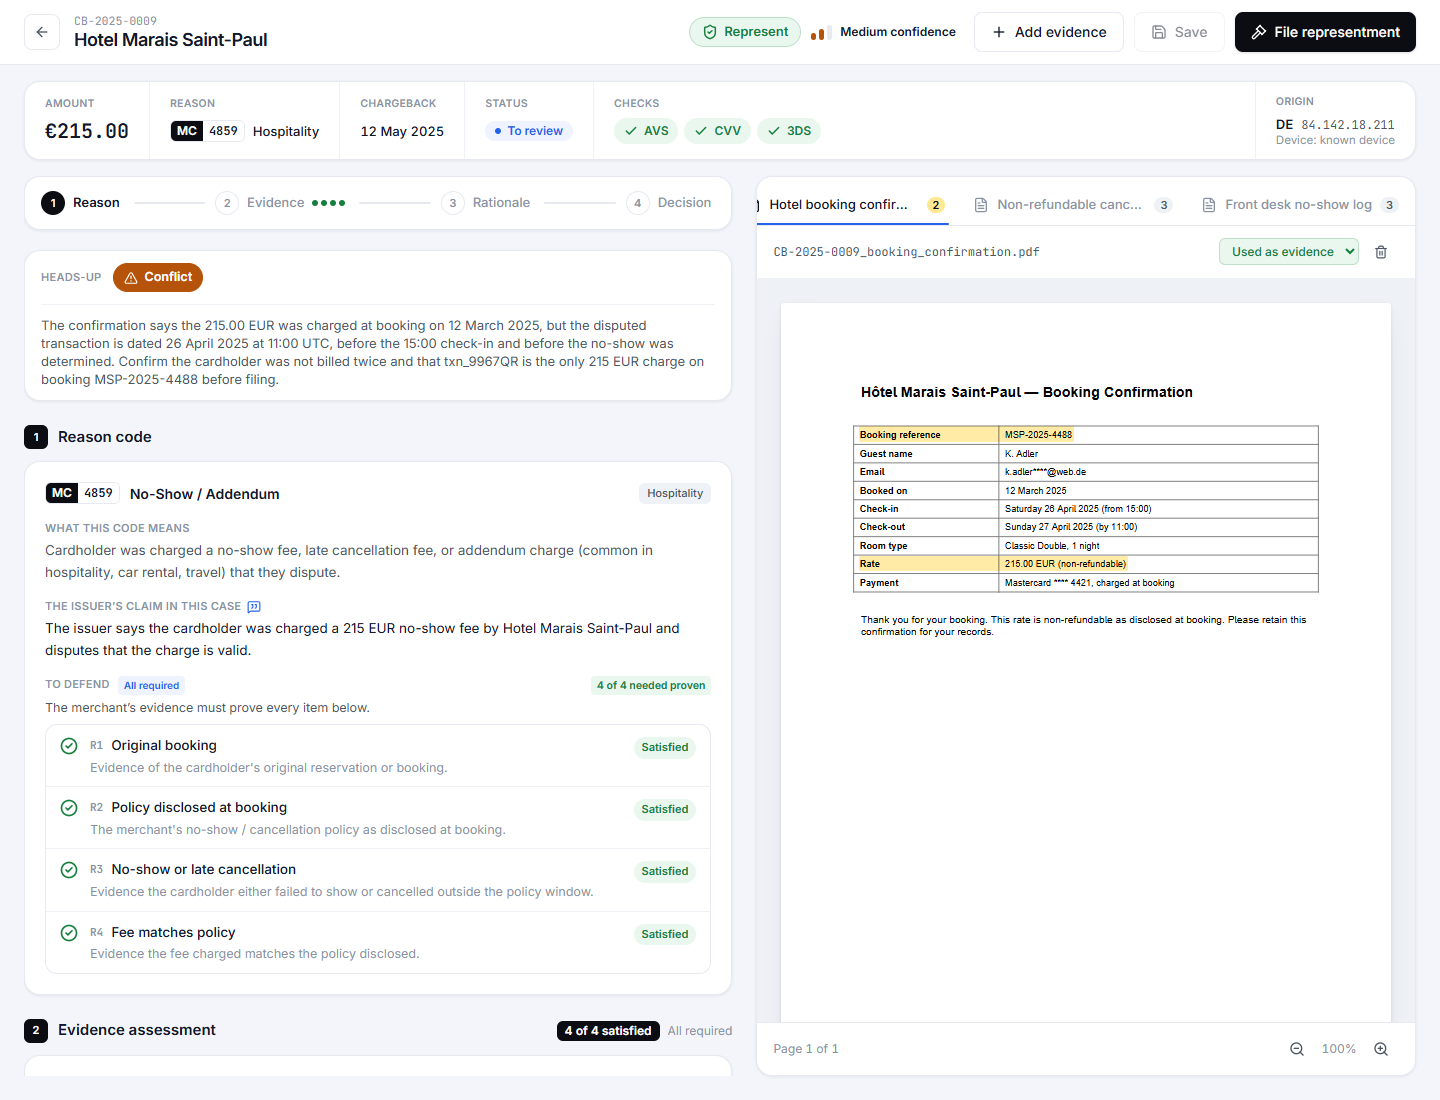
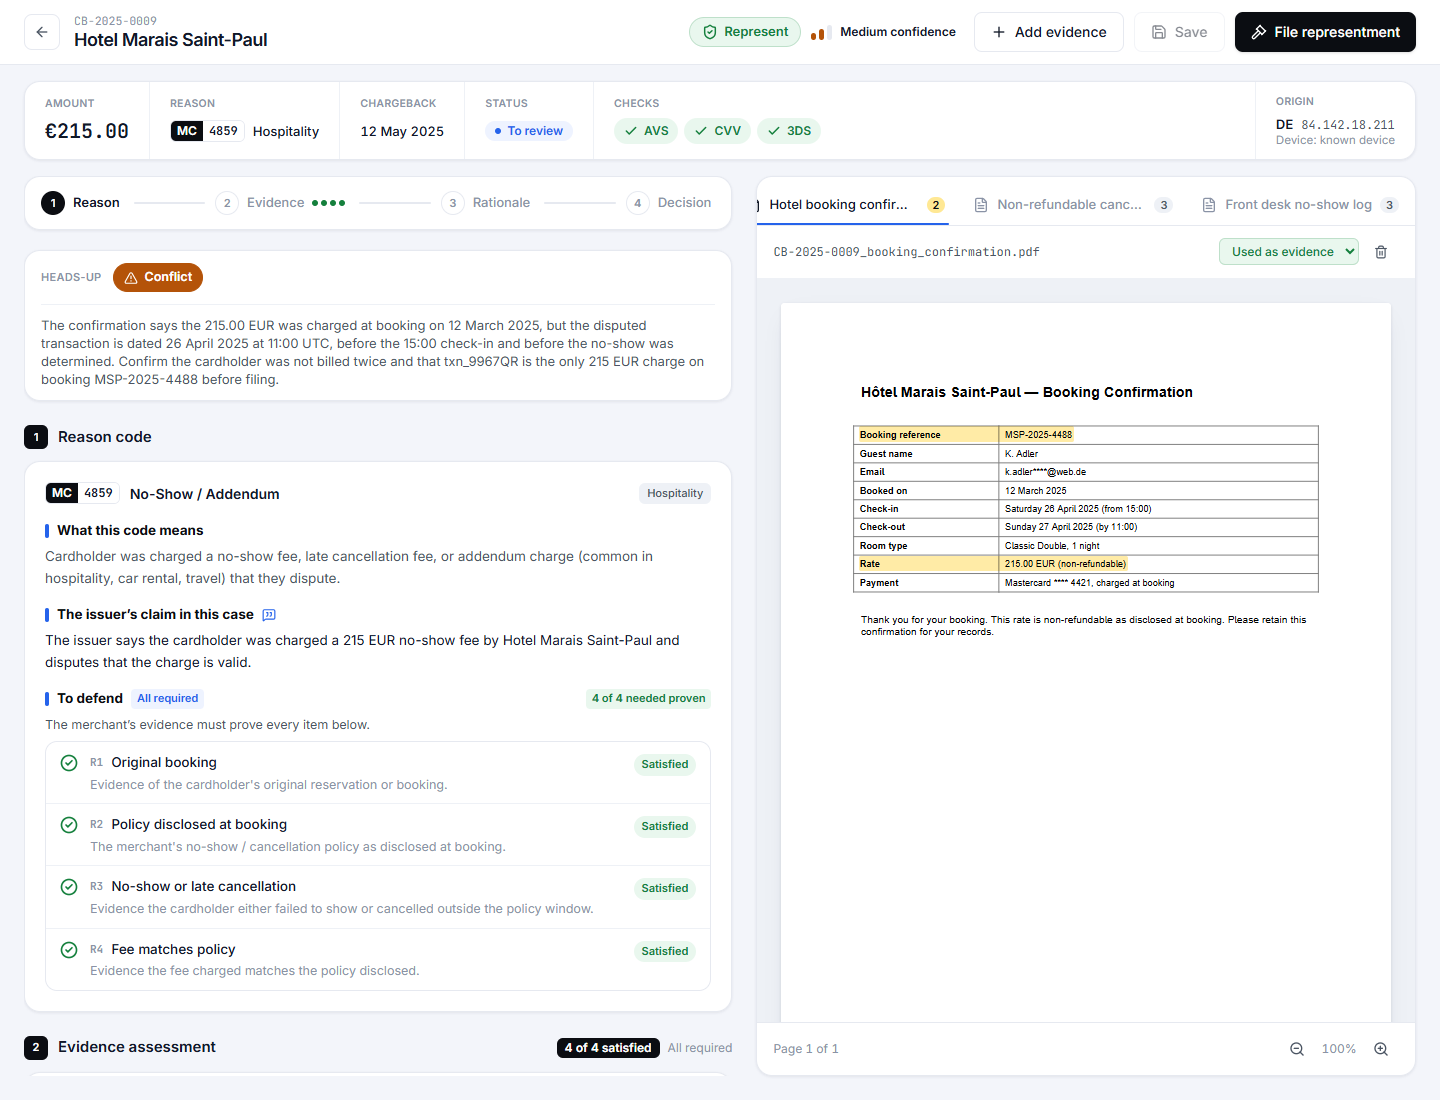
Bolder titles in the reason code section

diff --git a/frontend/src/pages/analysis/Sections.tsx b/frontend/src/pages/analysis/Sections.tsx
@@ -68,12 +68,16 @@ export function ReasonSection({ workup, kase, items, onPick }: { workup: Workup;
         <dl className="mt-4 grid gap-3.5 text-[13.5px] leading-relaxed">
           {rule.definition && (
             <div>
-              <dt className="mb-0.5 text-[11px] font-semibold tracking-wide text-muted uppercase">What this code means</dt>
+              <dt className="mb-1 flex items-center gap-2 text-[13.5px] font-bold text-ink">
+                <span className="h-3.5 w-1 shrink-0 rounded-full bg-blue" />
+                What this code means
+              </dt>
               <dd className="text-text-2">{rule.definition}</dd>
             </div>
           )}
           <div>
-            <dt className="mb-0.5 flex items-center gap-1.5 text-[11px] font-semibold tracking-wide text-muted uppercase">
+            <dt className="mb-1 flex items-center gap-2 text-[13.5px] font-bold text-ink">
+              <span className="h-3.5 w-1 shrink-0 rounded-full bg-blue" />
               The issuer’s claim in this case
               <Tooltip text={<>Issuer’s original words: “{kase.issuer_narrative}”</>}>
                 <MessageSquareQuote className="size-3.5 text-blue" aria-label="Issuer’s original words" />
@@ -82,10 +86,11 @@ export function ReasonSection({ workup, kase, items, onPick }: { workup: Workup;
             <dd className="text-text">{workup.summary.allegation}</dd>
           </div>
           <div>
-            <dt className="mb-1 flex flex-wrap items-center gap-2 text-[11px] font-semibold tracking-wide text-muted uppercase">
+            <dt className="mb-1.5 flex flex-wrap items-center gap-2 text-[13.5px] font-bold text-ink">
+              <span className="h-3.5 w-1 shrink-0 rounded-full bg-blue" />
               To defend
-              <span className="rounded bg-blue-soft px-1.5 py-px text-[10px] tracking-normal text-blue normal-case">{rule.logic_label}</span>
-              <span className={clsx('ml-auto rounded px-1.5 py-px text-[10.5px] tracking-normal normal-case', met ? 'bg-ok-soft text-ok' : 'bg-warn-soft text-warn')}>
+              <span className="rounded bg-blue-soft px-1.5 py-px text-[11px] font-semibold text-blue">{rule.logic_label}</span>
+              <span className={clsx('ml-auto rounded px-1.5 py-px text-[11px] font-semibold', met ? 'bg-ok-soft text-ok' : 'bg-warn-soft text-warn')}>
                 {proven} of {need} needed proven
               </span>
             </dt>
